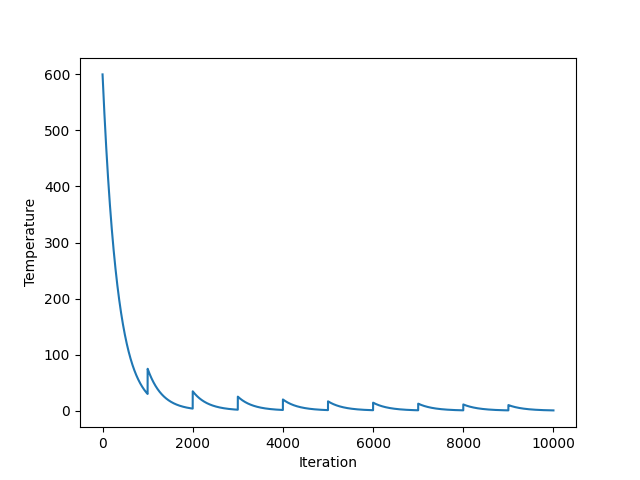
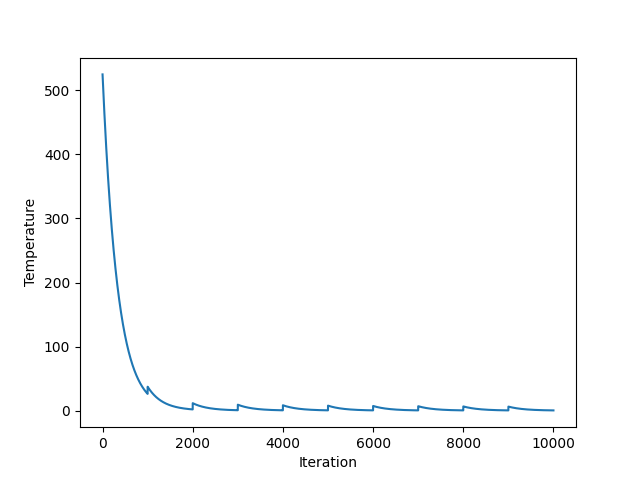
proper graph

diff --git a/test.py b/test.py
@@ -1,8 +1,9 @@
 import matplotlib.pyplot as plt
+import math
 
 temps = []
 for iteration in range(10000):
-    temperature = 500 * (0.997 ** iteration) + ((100 / (int(iteration / 1000) + 1)) * 0.997 ** (iteration % 1000))
+    temperature = 500 * (0.997 ** iteration) + ((25 / (math.sqrt(int(iteration / 1000)) + 1)) * 0.997 ** (iteration % 1000))
     temps.append(temperature)
 
 plt.plot(list(range(len(temps))), temps)
